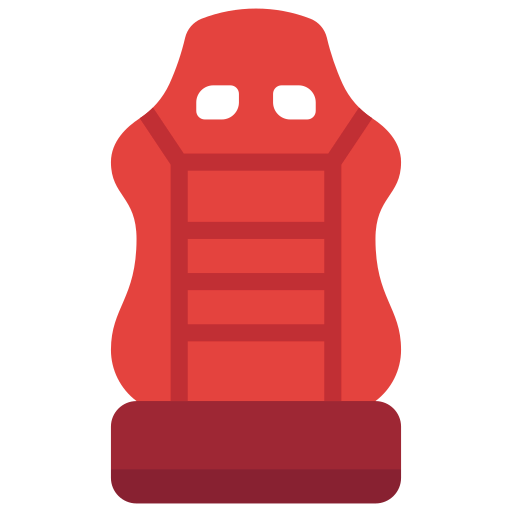
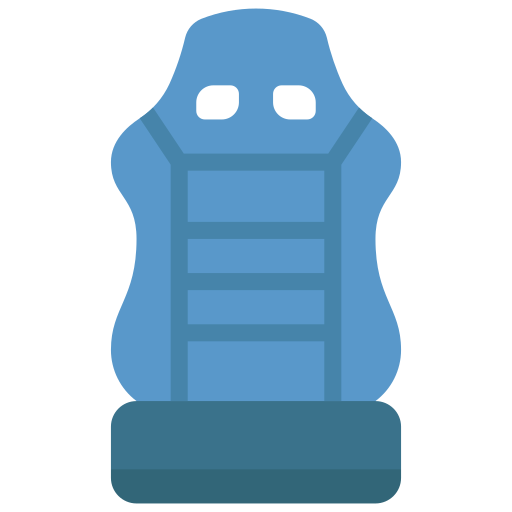
[feat]: Add state to trips page

diff --git a/src/components/SeatLayout.jsx b/src/components/SeatLayout.jsx
@@ -1,4 +1,4 @@
-import { useState } from "react";
+import { useState, useEffect } from "react";
 // import { seats } from "../data/data.json";
 import Button from "./ui/Button";
 import Seat from "./ui/Seat";
@@ -6,7 +6,22 @@ import { useNavigate } from "react-router-dom";
 
 const SeatLayout = (props) => {
   const [loading, setLoading] = useState(false);
+  const [seatStates, setSeatStates] = useState({ ...props.seatInfos });
+  const [selectedSeats, setSelectedSeats] = useState([]);
+  const [totalFare, setTotalFare] = useState(0);
   const navigate = useNavigate();
+
+  // Calculate total fare whenever selected seats change
+  useEffect(() => {
+    let total = 0;
+    selectedSeats.forEach((selectedSeat) => {
+      const section = Object.keys(selectedSeat)[0];
+      const seatNo = selectedSeat[section];
+      const seat = seatStates[section].find((seat) => seat.seatNo === seatNo);
+      total += parseInt(seat.price);
+    });
+    setTotalFare(total);
+  }, [selectedSeats, seatStates]);
 
   const selectSeats = (e) => {
     setLoading(true);
@@ -25,12 +40,57 @@ const SeatLayout = (props) => {
     });
 
     const bookingData = { ...props, ...formValues };
-    console.log(bookingData)
     navigate("/payment", { state: bookingData });
     setLoading(false);
   };
 
+  const onSelect = (section, seatIndex) => {
+    const seat = seatStates[section][seatIndex];
+    const newSelectedSeats = [...selectedSeats];
+    const seatNo = seat.seatNo;
+    if (seat.isSelected) {
+      // Remove seat if already selected
+      const index = newSelectedSeats.findIndex(
+        (selectedSeat) => selectedSeat[section] === seatNo
+      );
+      if (index !== -1) {
+        newSelectedSeats.splice(index, 1);
+      }
+    } else {
+      // Add seat if not selected
+      newSelectedSeats.push({ [section]: seatNo });
+    }
+    setSelectedSeats(newSelectedSeats);
+    const updatedSeatStates = { ...seatStates };
+    updatedSeatStates[section] = seatStates[section].map((seat, index) => {
+      if (index === seatIndex) {
+        return {
+          ...seat,
+          isSelected: !seat.isSelected,
+        };
+      }
+      return seat;
+    });
+    setSeatStates(updatedSeatStates);
+  };
+
+  // Formatting selected seats for display
+  const selectedSeatStrings = selectedSeats.map((selectedSeat) => {
+    const section = Object.keys(selectedSeat)[0];
+    const seatNo = selectedSeat[section];
+    return `${seatNo}`;
+  });
+
   const resetSeatSelection = () => {
+    const updatedSeatInfos = {};
+    for (const [key, value] of Object.entries(seatStates)) {
+      updatedSeatInfos[key] = value.map((seat) => ({
+        ...seat,
+        isSelected: false,
+      }));
+    }
+    setSeatStates(updatedSeatInfos);
+    setSelectedSeats([]);
     const form = document.getElementById("selectSeats");
     form.reset();
   };
@@ -62,84 +122,30 @@ const SeatLayout = (props) => {
       </div>
       <form id="selectSeats" onSubmit={selectSeats} className="space-y-4">
         <div className="flex gap-10">
-          <aside className="flex flex-col gap-2">
-            <div className="flex gap-1">
-              <div className="grid grid-cols-2 gap-1">
-                <div className="flex flex-col gap-1">
-                  {[...Array(Math.floor(props.noOfSeats / 4))].map((_, i) => (
+          <div className="border p-3 rounded-t-xl">
+            <aside className="flex gap-1 border px-2 py-2">
+              {Object.entries(seatStates).map(([section, seats]) => (
+                <div key={section} className="flex flex-col gap-1 self-end">
+                  {seats.map((seat, index) => (
                     <Seat
-                      key={`${String.fromCharCode(65 + i)}3`}
-                      id={`${String.fromCharCode(65 + i)}3`}
-                      value={`${String.fromCharCode(65 + i)}3`}
-                      label={`${String.fromCharCode(65 + i)}3`}
-                      name={`${String.fromCharCode(65 + i)}3`}
+                      key={seat.seatNo}
+                      id={seat.seatNo}
+                      value={seat.seatNo}
+                      label={seat.seatNo}
+                      name={seat.seatNo}
+                      seat={seat}
+                      onClick={() => onSelect(section, index)}
                     />
                   ))}
                 </div>
-                <div className="flex flex-col gap-1">
-                  {[...Array(Math.floor(props.noOfSeats / 4))].map((_, i) => (
-                    <Seat
-                      key={`${String.fromCharCode(65 + i)}4`}
-                      id={`${String.fromCharCode(65 + i)}4`}
-                      value={`${String.fromCharCode(65 + i)}4`}
-                      label={`${String.fromCharCode(65 + i)}4`}
-                      name={`${String.fromCharCode(65 + i)}4`}
-                    />
-                  ))}
-                </div>
-              </div>
-              <div className="self-end">
-                <Seat
-                  key={`${String.fromCharCode(
-                    65 + Math.floor(props.noOfSeats / 4 - 1)
-                  )}5`}
-                  id={`${String.fromCharCode(
-                    65 + Math.floor(props.noOfSeats / 4 - 1)
-                  )}5`}
-                  value={`${String.fromCharCode(
-                    65 + Math.floor(props.noOfSeats / 4 - 1)
-                  )}5`}
-                  label={`${String.fromCharCode(
-                    65 + Math.floor(props.noOfSeats / 4 - 1)
-                  )}5`}
-                  name={`${String.fromCharCode(
-                    65 + Math.floor(props.noOfSeats / 4 - 1)
-                  )}5`}
-                />
-              </div>
-              <div className="grid grid-cols-2 gap-1">
-                <div className="flex flex-col gap-1">
-                  {[...Array(Math.floor(props.noOfSeats / 4))].map((_, i) => (
-                    <Seat
-                      key={`${String.fromCharCode(65 + i)}2`}
-                      id={`${String.fromCharCode(65 + i)}2`}
-                      value={`${String.fromCharCode(65 + i)}2`}
-                      label={`${String.fromCharCode(65 + i)}2`}
-                      name={`${String.fromCharCode(65 + i)}2`}
-                    />
-                  ))}
-                </div>
-                <div className="flex flex-col gap-1">
-                  {[...Array(Math.floor(props.noOfSeats / 4))].map((_, i) => (
-                    <Seat
-                      key={`${String.fromCharCode(65 + i)}1`}
-                      id={`${String.fromCharCode(65 + i)}1`}
-                      value={`${String.fromCharCode(65 + i)}1`}
-                      label={`${String.fromCharCode(65 + i)}1`}
-                      name={`${String.fromCharCode(65 + i)}1`}
-                    />
-                  ))}
-                </div>
-              </div>
-            </div>
-          </aside>
+              ))}
+            </aside>
+          </div>
           <aside className="flex flex-col gap-2">
             <div className="font-bold">
-              Selected seats:
+              Selected seats: {selectedSeatStrings.join(", ")}
             </div>
-            <div className="font-bold">
-              Total Fare: 
-            </div>
+            <div className="font-bold">Total Fare: {totalFare}</div>
           </aside>
         </div>
         <Button text="Proceed To Book" type="submit" loading={loading} />

diff --git a/src/components/ui/Seat.jsx b/src/components/ui/Seat.jsx
@@ -1,31 +1,37 @@
-import { useState } from "react";
+import { useState, useEffect } from "react";
 
 const Seat = (props) => {
-  const { label, ...restProps } = props;
-  const [isSelected, setIsSelected] = useState(false);
+  const { label, seat, onClick, ...restProps } = props;
   const [source, setSource] = useState("images/car-seat-b-available.png");
 
+  useEffect(() => {
+    if (seat.isSelected) {
+      setSource("images/car-seat-b-selected.png");
+    } else {
+      setSource("images/car-seat-b-available.png");
+    }
+  }, [seat.isSelected]);
+
   const handleClick = () => {
-    if (isSelected) {
-      setIsSelected(false);
+    onClick();
+    if (seat.isSelected) {
       setSource("images/car-seat-b-available.png");
     } else {
-      setIsSelected(true);
-      setSource("images/car-seat-b-booked.png");
+      setSource("images/car-seat-b-selected.png");
     }
   };
 
   return (
-    <div className="flex flex-col items-center">
+    <div className="flex flex-col items-center shrink-0">
       <input
         type="checkbox"
-        checked={isSelected}
-        onChange={handleClick}
+        checked={seat.isSelected}
+        onChange={() => {}} // No need for onChange here
         className="hidden"
         {...restProps}
       />
-      <img src={source} className="h-11" onClick={handleClick} />
-      <div className="text-xs">{label}</div>
+      <img src={source} className="h-12" onClick={handleClick} />
+      <div className="text-xs font-medium">{label}</div>
     </div>
   );
 };

diff --git a/src/pages/admin/RegisterRoute.jsx b/src/pages/admin/RegisterRoute.jsx
@@ -10,6 +10,7 @@ import { locations as locs } from "../../data/data.json";
 const RegisterRoute = () => {
   const [locations, setLocations] = React.useState([]);
   const [loading, setLoading] = React.useState(false);
+  const [arrivalDate, setArrivalDate] = React.useState("");
   const { busId } = useParams();
   const navigate = useNavigate();
 
@@ -54,6 +55,11 @@ const RegisterRoute = () => {
     } finally {
       setLoading(false);
     }
+  };
+
+  const handleDepartureDate = (e) => {
+    const minArrivalDate = new Date(e.target.value);
+    setArrivalDate(minArrivalDate.toISOString().split("T")[0]);
   };
 
   return (
@@ -101,6 +107,7 @@ const RegisterRoute = () => {
               label="Departure Date"
               required
               placeholder="Departure date"
+              onChange={handleDepartureDate}
               min={new Date().toISOString().split("T")[0]}
             />
             <Input
@@ -109,7 +116,7 @@ const RegisterRoute = () => {
               label="Arrival Date"
               required
               placeholder="Arrival Date"
-              min={new Date().toISOString().split("T")[0]}
+              min={arrivalDate}
             />
 
             <Input

diff --git a/src/pages/user/Trips.jsx b/src/pages/user/Trips.jsx
@@ -199,6 +199,7 @@ const Trips = () => {
                 <Card2
                   key={trip._id}
                   id={trip._id}
+                  seatInfos={trip.seatInfos}
                   tripName={trip.name}
                   origin={trip.origin}
                   destination={trip.destination}

diff --git a/src/components/Logo.jsx b/src/components/Logo.jsx
@@ -4,7 +4,7 @@ const Logo = () => {
   return (
     <h2>
       <Link to={"/"} className="text-blue-500">
-        Kilimanjaro-Express
+        Kilimanjaro Express
       </Link>
     </h2>
   );
